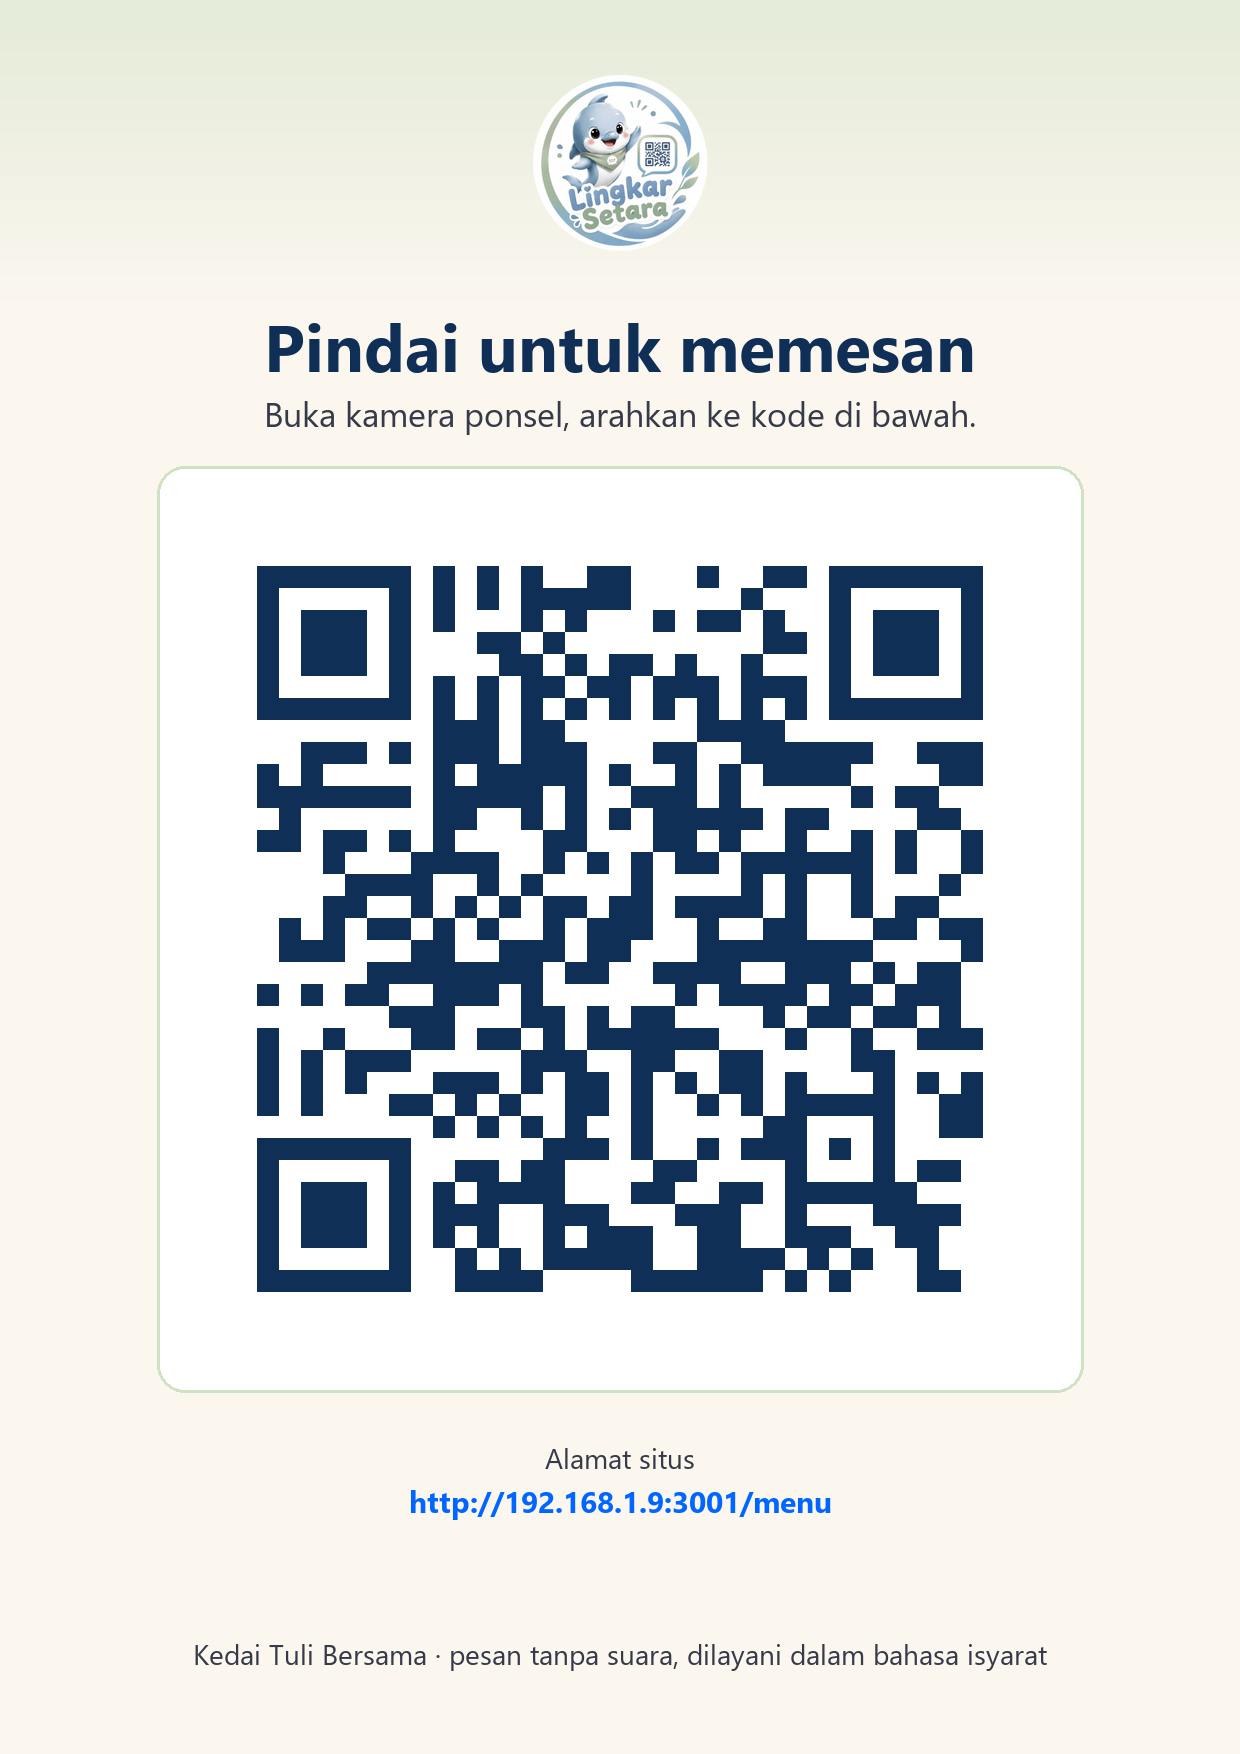
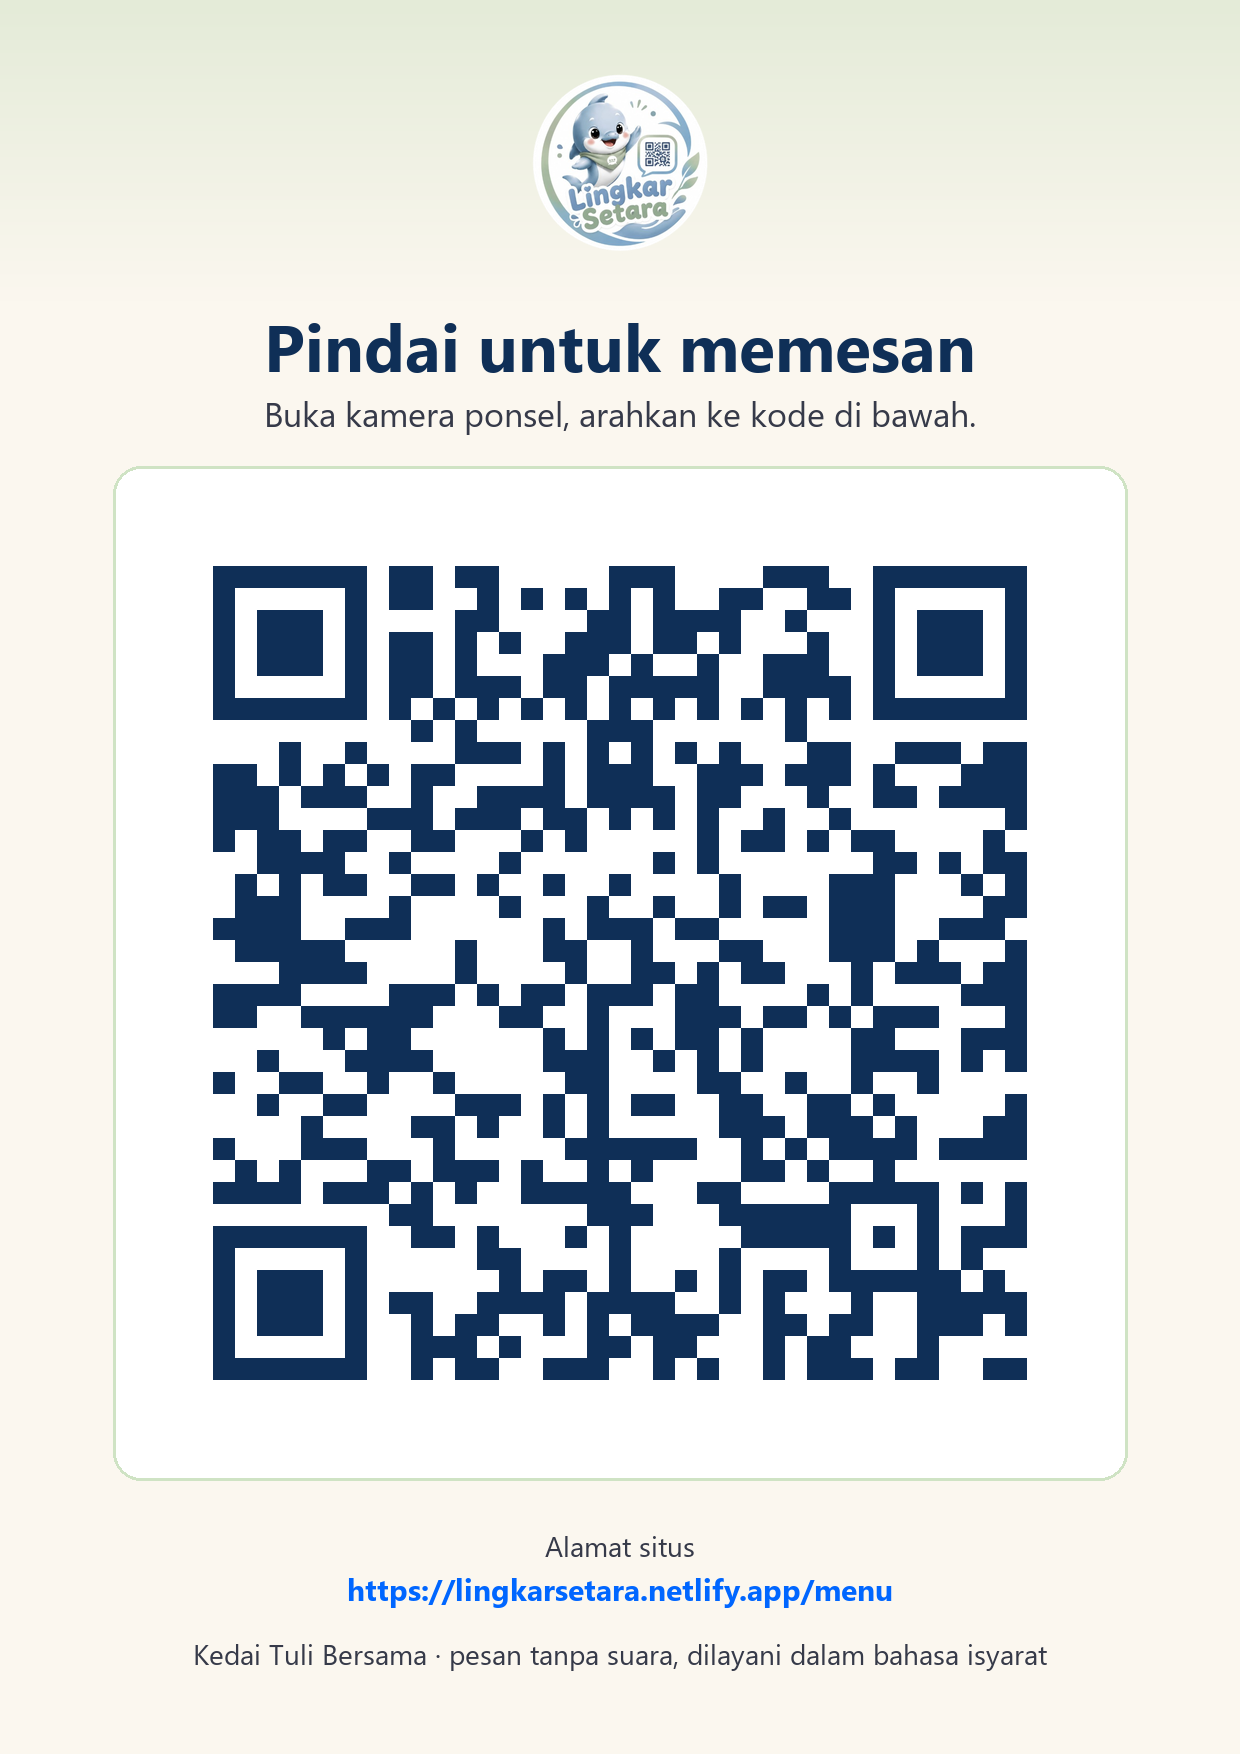
QR untuk domain produksi https://lingkarsetara.netlify.app

Changed region(s): [[0.1532, 0.3079, 0.8274, 0.8005], [0.2758, 0.8312, 0.7048, 0.9236]]

diff --git a/src/data/qr-meta.ts b/src/data/qr-meta.ts
@@ -16,8 +16,8 @@ export type QrMeta = {
 };
 
 export const qrMeta: QrMeta = {
-  "base": "http://192.168.1.9:3001",
-  "generatedAt": "2026-10-28T00:00:12",
+  "base": "https://lingkarsetara.netlify.app",
+  "generatedAt": "2026-10-28T15:19:36",
   "files": {
     "home": {
       "svg": "/qr/web.svg",
